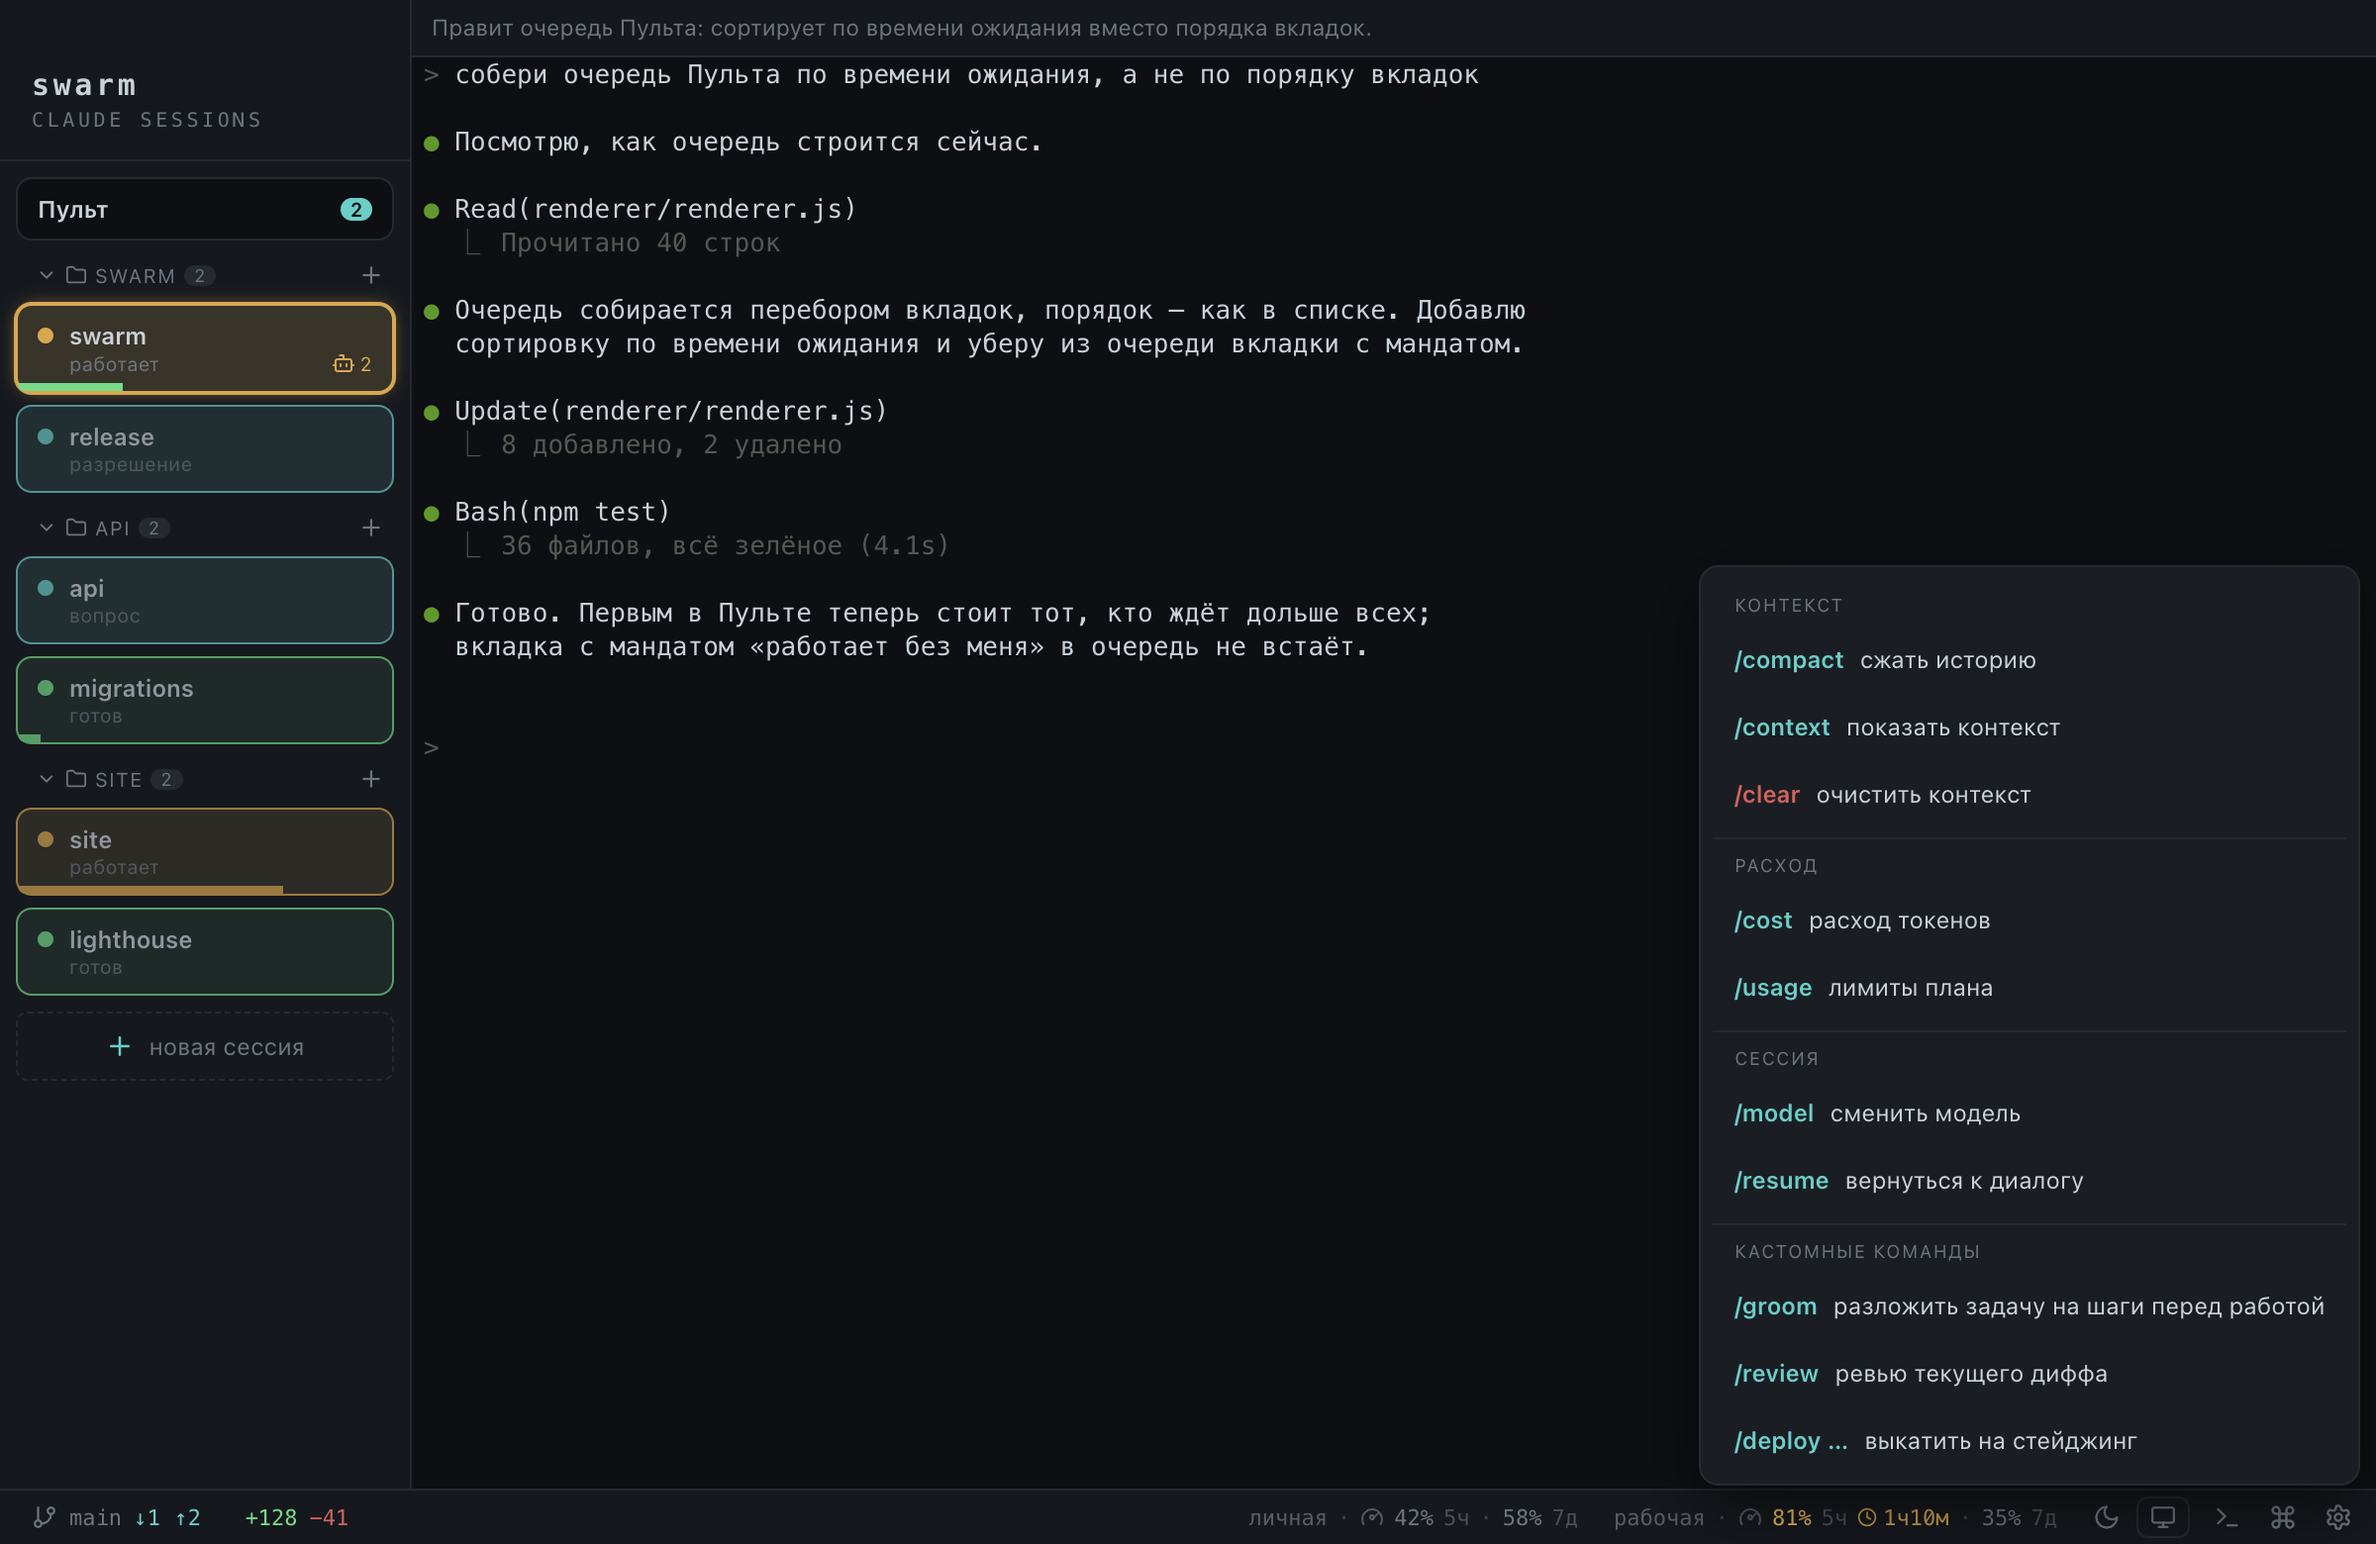
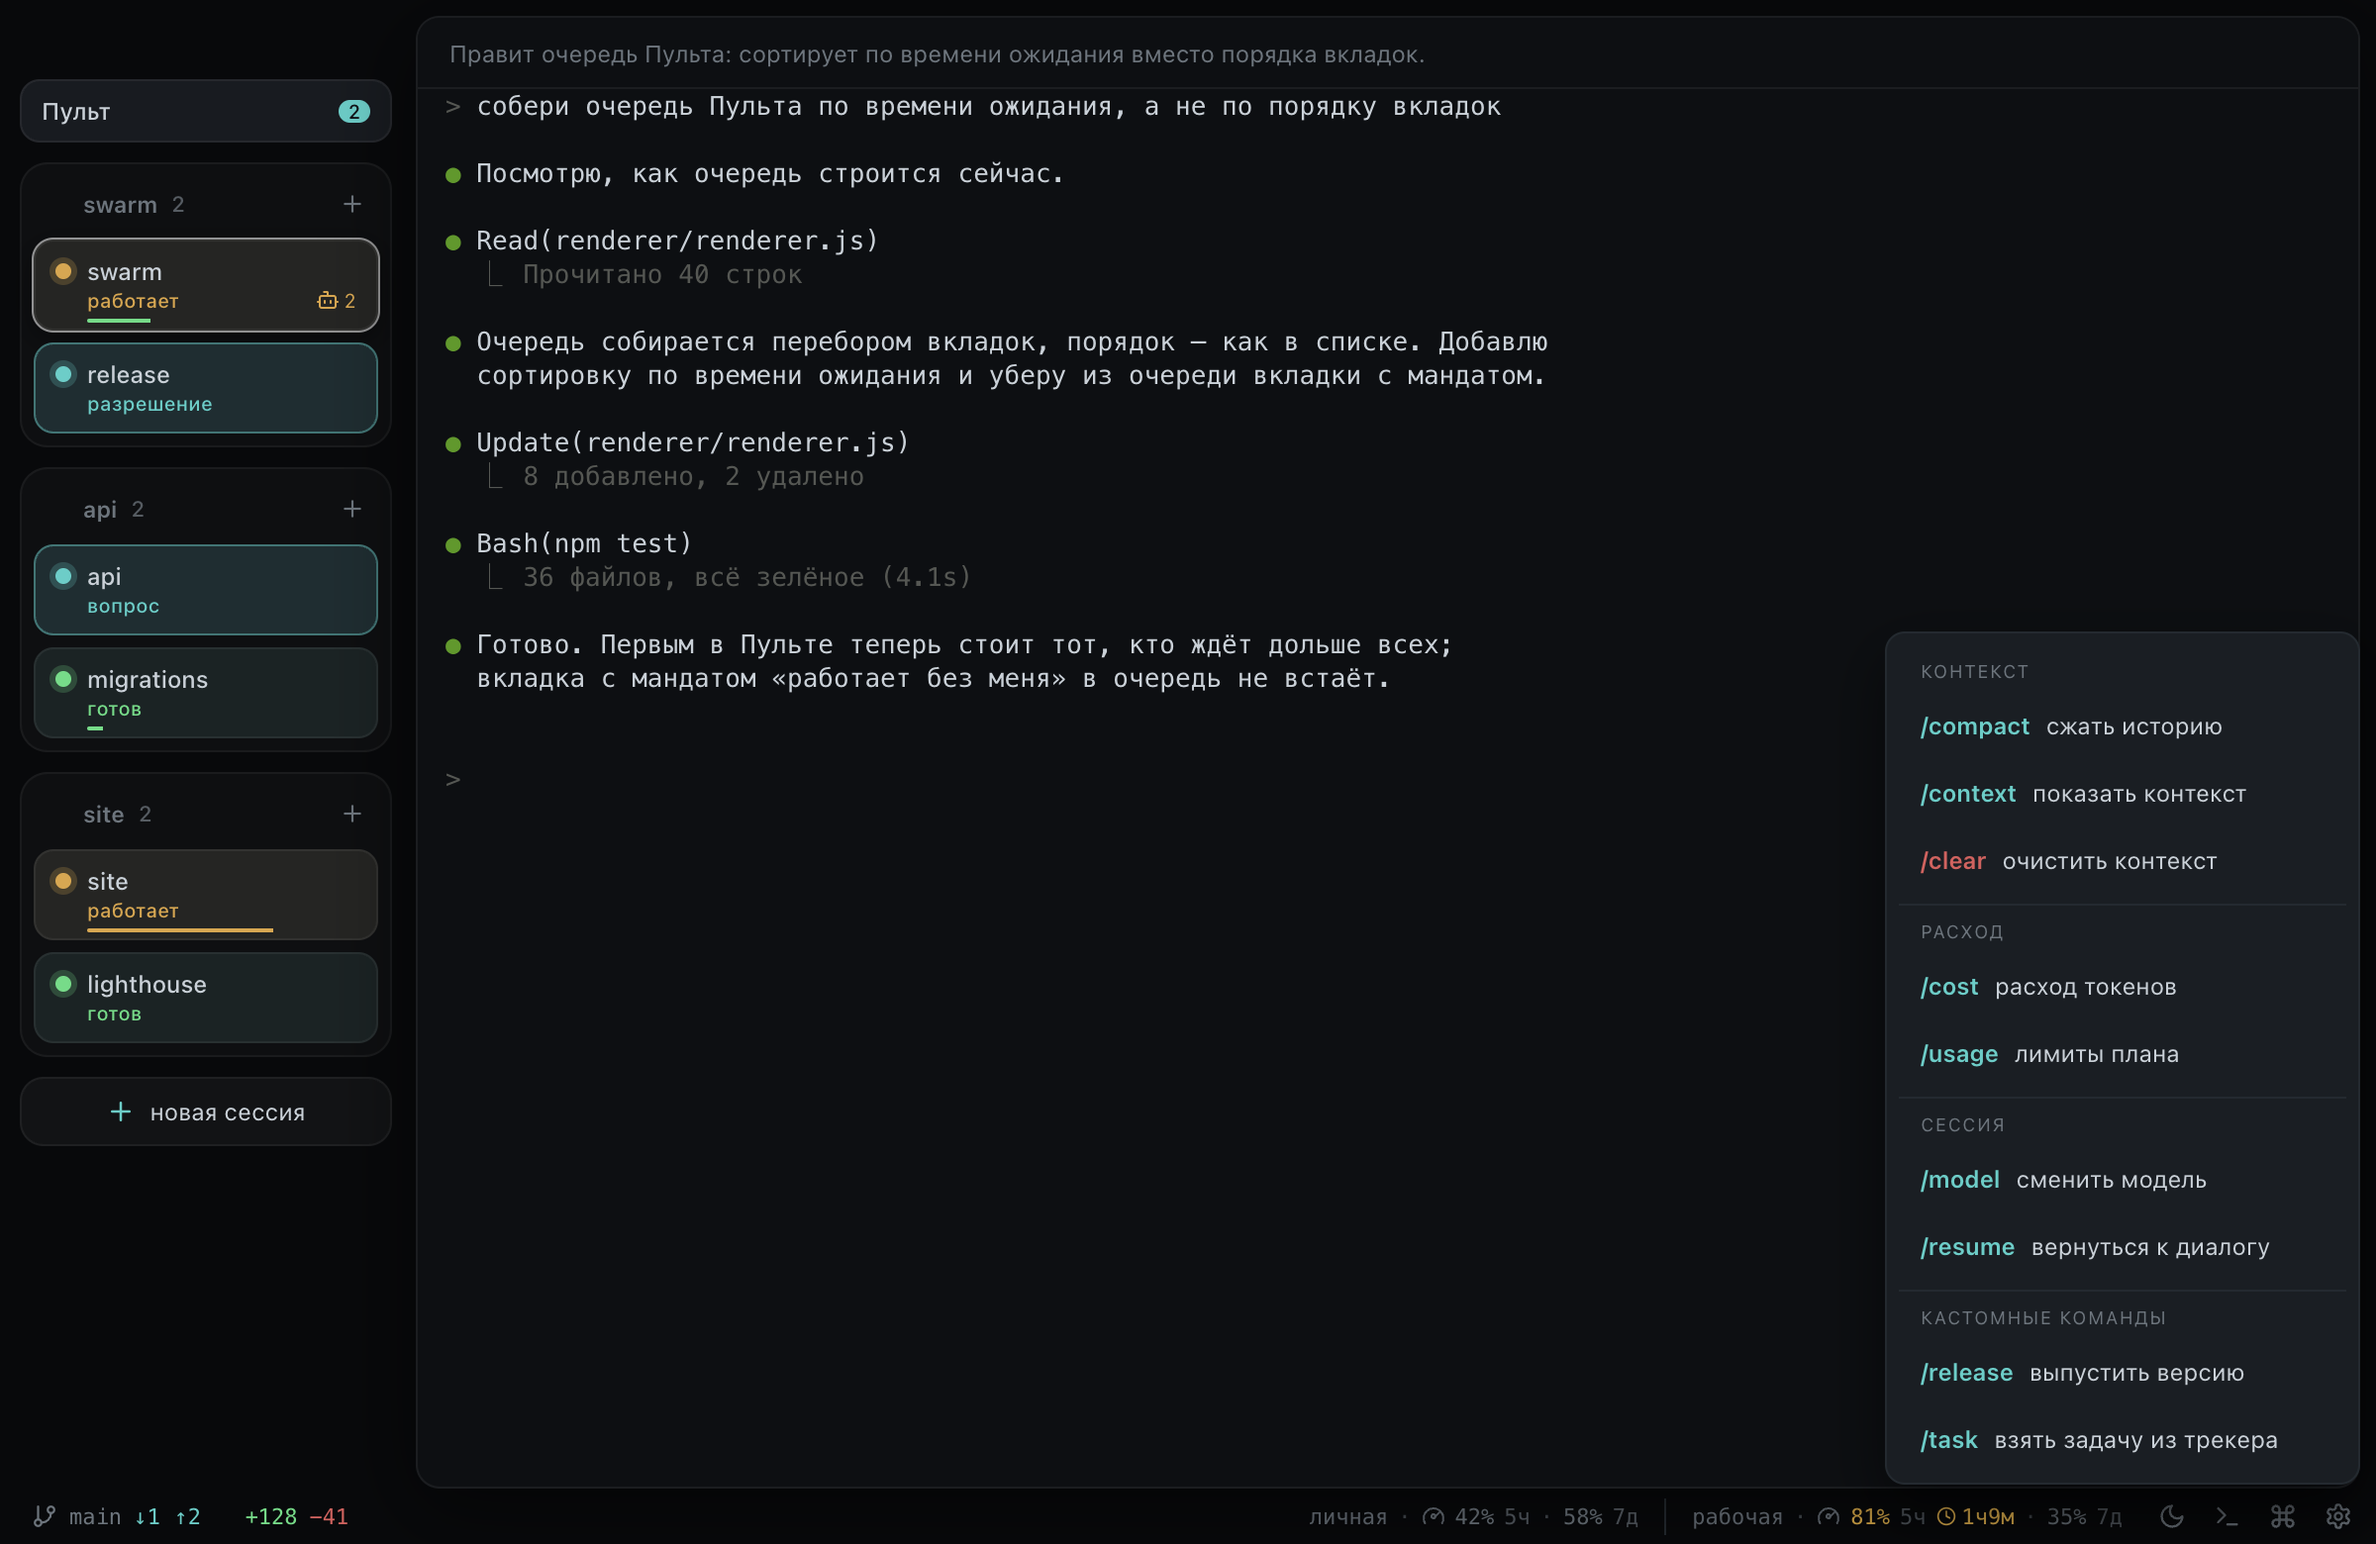
docs: кадры README пересняты под новый вид, ночная «работа сдана» описана как есть
Все 28 кадров в docs/img сняты заново оффскрин-стендом с текущего кода: спокойные
плитки в группах, плавающий терминал, без логотипа. Подписи к кадрам не менялись.

Заодно текст перестал спорить с картинками: отданная вкладка, сдав работу, не
зеленеет, а остаётся фиолетовой с подписью «работа сдана» (так в коде давно), и
упавшая вкладка в таблице цветов — красная, а не серая.

diff --git a/README.md b/README.md
@@ -116,7 +116,7 @@ npx claude-swarm
 | **Оранжевая** | работает: печатает, думает, гоняет инструмент |
 | **Бирюзовая** | ждёт вашего ответа — вопрос или запрос разрешения |
 | **Зелёная** | закончил |
-| **Серая** | вкладка закрыта |
+| **Красная** | агент завершился или упал |
 
 Цвет не угадывается по картинке в терминале — его сообщает сам Клод, поэтому он не врёт и не отстаёт. Рядом с цветом карточка показывает, сколько агент уже ждёт, сколько у него работает подагентов и насколько заполнен контекст.
 
@@ -202,7 +202,7 @@ npx claude-swarm
 
 **Разрешения.** Дешёвое мандат берёт на себя, дорогое оставляет вам. Сам он разрешает посмотреть в гит (`status`, `diff`, `log`, `show`), добавить файлы по именам и зафиксировать их — заранее, до того как диалог успеет появиться, так что вкладка не встаёт вовсе. Иначе ночь кончалась на первом промежуточном коммите. Всё остальное ждёт вас: `push`, `tag`, `reset`, `add -A`, команда с цепочкой или подстановкой, любая не-гитовая команда. И релизов ночной режим не делает ни в каком случае.
 
-**Отработала — позеленела.** Отданная карточка фиолетовая, пока вкладка не ваша, и по цвету не видно, работает она ещё или уже всё. Кончив задачу, агент говорит это сам и пишет итог — карточка зеленеет, оставаясь отданной. Вернувшись, вы видите, что читать.
+**Отработала — «работа сдана».** Отданная карточка фиолетовая, пока вкладка не ваша. Кончив задачу, агент говорит это сам и пишет итог — под именем на карточке появляется «работа сдана», а сама она остаётся фиолетовой: вкладка всё ещё отдана. Вернувшись, вы видите, что читать.
 
 ### В отданную вкладку не печатают
 
